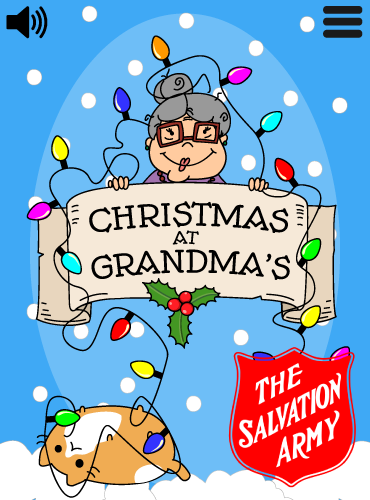
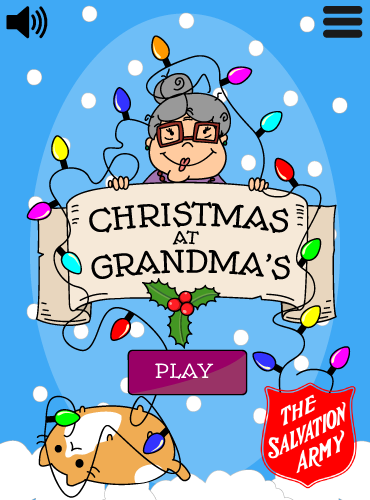
tutorial

Changed region(s): [[0.327, 0.69, 0.9811, 0.99]]

diff --git a/js/gui.js b/js/gui.js
@@ -1,6 +1,7 @@
 /*global Game, createjs, console*/
 // here is the code for buttons, on-screen messages etc.
-Game.showNextLevelBtn = function() {'use strict';
+
+/*Game.showNextLevelBtn = function() {'use strict';
 	var txt = new createjs.Text("HOME", "18px Gorditas", "white"), 
 	hitarea = new createjs.Shape(), 
 	border = 10, 
@@ -23,7 +24,7 @@ Game.showNextLevelBtn = function() {'use strict';
 	Game.stage.update();
 	//
 	return button;
-};
+}; */
 
 Game.showStartBtn = function(imageFile) {'use strict';
 	var txt = new createjs.Text("PLAY", "18px Gorditas", "white"), 
@@ -69,10 +70,10 @@ Game.showLvgRmWin = function(){
 	Game.tiles = [];
 
 	var background = Game.showStartBtn("img/LvgRmWin.png");
-	var nextBtn = Game.showNextLevelBtn();
-	nextBtn.addEventListener("mousedown", function() {
-		Game.showLvgRmHappy();
-	});
+	//var nextBtn = Game.showNextLevelBtn();
+	//nextBtn.addEventListener("mousedown", function() {
+		//Game.showLvgRmHappy();
+	//});
 	background.addEventListener("mousedown", function() {
 		Game.showLvgRmHappy();
 	});
@@ -92,16 +93,53 @@ Game.showLevelOver = function() {'use strict';
 
 };
 
-Game.showStartLevel = function() {'use strict';
-	Game.stage.removeAllChildren();
-
-	//forget about the tiles used for current level
-	Game.tiles = [];
-
-	var startBtn = Game.showStartBtn("img/StartLevel.png");
+Game.showTutScrnProblem = function() {'use strict';
+	var startBtn = Game.showStartBtn("img/tutScrnProblem.png");
 	startBtn.addEventListener("mousedown", function() {
 		Game.stage.removeAllChildren();
 		Game.initModel();
+	});
+};
+
+Game.showTutScrnWhiskers = function() {'use strict';
+	var startBtn = Game.showStartBtn("img/tutScrnWhiskers.png");
+	startBtn.addEventListener("mousedown", function() {
+		Game.showTutScrnProblem();
+	});
+};
+
+Game.showTutScrnFaster = function() {'use strict';
+	var startBtn = Game.showStartBtn("img/tutScrnFaster.png");
+	startBtn.addEventListener("mousedown", function() {
+		Game.showTutScrnWhiskers();
+	});
+};
+
+Game.showTutScrnTime = function() {'use strict';
+	var startBtn = Game.showStartBtn("img/tutScrnTime.png");
+	startBtn.addEventListener("mousedown", function() {
+		Game.showTutScrnFaster();
+	});
+};
+
+Game.showTutScrnConnect = function() {'use strict';
+	var startBtn = Game.showStartBtn("img/tutScrnConnect.png");
+	startBtn.addEventListener("mousedown", function() {
+		Game.showTutScrnTime();
+	});
+};
+
+Game.showTutScrnRotate = function() {'use strict';
+	var startBtn = Game.showStartBtn("img/tutScrnRotate.png");
+	startBtn.addEventListener("mousedown", function() {
+		Game.showTutScrnConnect();
+	});
+};
+
+Game.showStartLevel = function() {'use strict';
+	var startBtn = Game.showStartBtn("img/StartLevel.png");
+	startBtn.addEventListener("mousedown", function() {
+		Game.showTutScrnRotate();
 	});
 };
 
@@ -118,18 +156,6 @@ Game.showCalender = function() {'use strict';
 };
 
 Game.showLvgRmHappy = function() {'use strict';
-	Game.stage.removeAllChildren();
-
-	//forget about the tiles used for current level
-	Game.tiles = [];
-
-	if(!Game.isJazzPlaying){
-		//createjs.Sound.stop();
-		createjs.Sound.play("jazzbg", {loop:-1});
-		createjs.Sound.play("record", {loop:-1});
-		Game.isJazzPlaying = true;
-	}
-
 	var startBtn = Game.showStartBtn("img/LvgRmHappy.png");
 	startBtn.addEventListener("mousedown", function() {
 		Game.showCalender();
@@ -144,15 +170,18 @@ Game.showLvgRmSad = function() {'use strict';
 
 	createjs.Sound.stop();
 	createjs.Sound.play("scratch");
+	if(!Game.isJazzPlaying){
+		//createjs.Sound.stop();
+		createjs.Sound.play("jazzbg", {loop:-1});
+		createjs.Sound.play("record", {loop:-1});
+		Game.isJazzPlaying = true;
+	}
 
 	var startBtn = Game.showStartBtn("img/LvgRmSad.png");
-	startBtn.addEventListener("mousedown", function() {
-		Game.showLvgRmHappy();
-	});
 	//Set timer
 	window.setTimeout(function() {
 		Game.showLvgRmHappy();
-	}, 2000);
+	}, 1500);
 };
 
 Game.showStartScreen = function() {'use strict';

diff --git a/js/mazegame.js b/js/mazegame.js
@@ -31,7 +31,8 @@ var Game = {
 		"electric" : "img/electric.png",
 		"sun" : "img/sun.png",
 		"soundOn" : "img/sound.png",
-		"soundOff" : "img/noSound.png"
+		"soundOff" : "img/noSound.png",
+		"weWishYou" : createjs.Sound.registerSound("sound/weWishYou.mp3", "weWishYou", 1)
 	},
 	// to avoid redundancy, we refer to property identifiers in imgResSrcs here
 	tileSrcs : ["straight", "cross", "tcord", "corner", "plug", "kitty", "empty"],
@@ -49,7 +50,7 @@ var Game = {
 	offsetX : 10,
 	offsetY : 50,
 	currentLevel : 0,
-	timeBeforeCatsShows: 15 * 1000, //20 seconds befor cat shows up
+	timeBeforeCatsShows: 10 * 1000, //10 seconds befor cat shows up
 	timeBetweenCatStages: 10 * 1000, //10 sencods between chat stage changes
 	timeToCompleatLevel: 60 * 1000,
 	isSoundOn: true,

diff --git a/js/Cat.js b/js/Cat.js
@@ -49,6 +49,17 @@ Game.Cat = function(myX, myY) {'use strict';
 		}
 		else{
 			my.changeTo(my.catStages[my.catStage]);
+			createjs.Tween.get(my).to({scaleX:1.2,scaleY:1.2,rotation:10},800,createjs.Ease.backInOut)
+			.call(function(){
+				createjs.Tween.get(my).to({scaleX:1.0,scaleY:1.0,rotation:0},1000,createjs.Ease.backInOut)
+				.call(function(){
+					createjs.Tween.get(my).to({scaleX:1.2,scaleY:1.2,rotation:10},800,createjs.Ease.backInOut)
+					.call(function(){
+						createjs.Tween.get(my).to({scaleX:1.0,scaleY:1.0,rotation:0},1000,createjs.Ease.backInOut);
+					});
+				});
+			});
+			
 		}
 	};
 

diff --git a/js/Light.js b/js/Light.js
@@ -37,6 +37,10 @@ Game.Light = function(myX, myY, myType) {'use strict';
 	my.turnOn = function() {
 		var newLKey = my.type+"on";
 		my.changeTo(newLKey);
+		createjs.Tween.get(my).to({scaleX:1.2,scaleY:1.2},100,createjs.Ease.elasticInOut)
+		.call(function(){
+			createjs.Tween.get(my).to({scaleX:1.0,scaleY:1.0},300,createjs.Ease.elasticInOut);
+		});
 		my.isTurnedOn = true;
 	};
 
